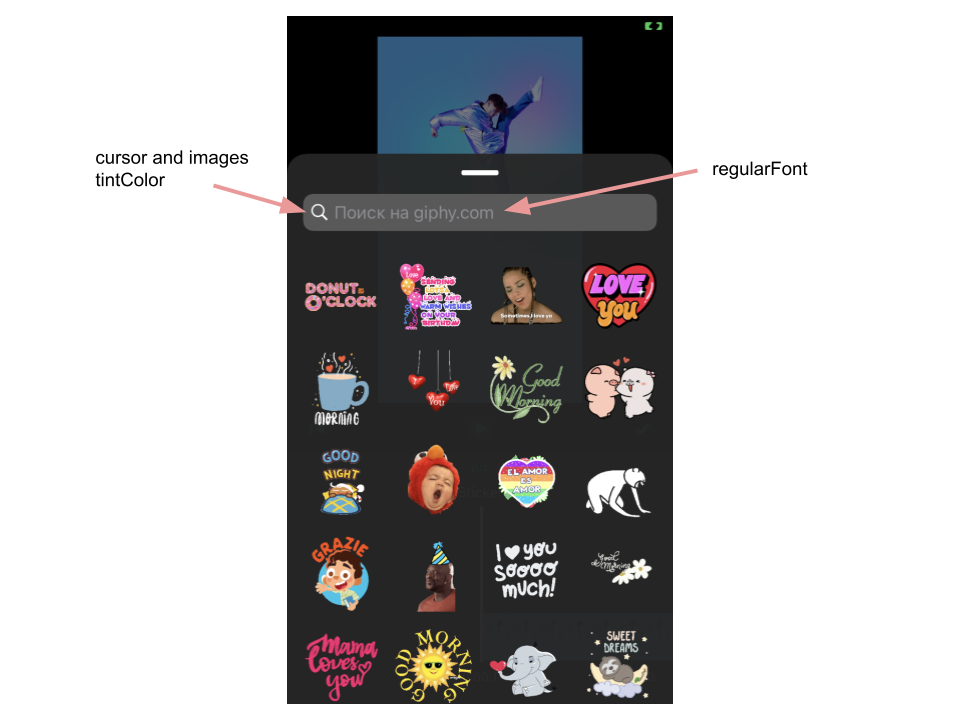
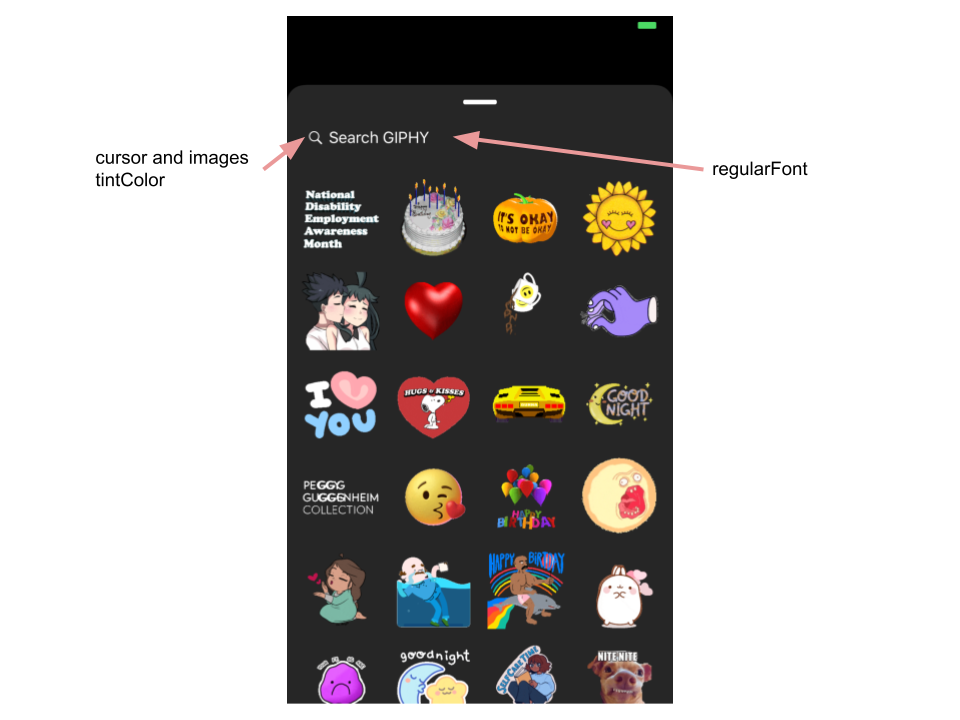
Update configuration for search gif placeholder (#119)
* update placeholder for search gif

* Add files via upload

* Update overlayEditor_styles.md

* Update README.md

* Update README.md

Changed region(s): [[0.2812, 0.0306, 0.75, 0.9778], [0.2188, 0.2444, 0.2812, 0.275], [0.6562, 0.0306, 0.6875, 0.0611]]

diff --git a/README.md b/README.md
@@ -334,6 +334,8 @@ Stickers are interactive objects (gif images) that can be added to the video rec
 
 By default [**Giphy API**](https://developers.giphy.com/docs/api/) is used to load stickers. All you need is just to pass your personal Giphy Api Key into **giphyAPIKey** parameter in GifPickerConfiguration entity.
 
+GIPHY doesn't charge for their content. The one thing they do require is attribution. Also, there is no commercial aspect to the current version of the product (no advertisements, etc.) To use it, please, [add "Search GIPHY" text attribution](https://github.com/Banuba/ve-sdk-ios-integration-sample/blob/update_placeholder_for_search_gif/mdDocs/overlayEditor_styles.md#string-resources) to the search bar.
+
 ### Configure the record button
 The record button is a main control on the camera screen which you can fully customize along with animations playing on tap.
 

diff --git a/mdDocs/overlayEditor_styles.md b/mdDocs/overlayEditor_styles.md
@@ -198,7 +198,7 @@ API key to interact with giphy service
 | OverlayEditor.Yes | Yes | Confirmation button title
 | OverlayEditor.No | No | Discarding button title
 | OverlayEditor.Do you want to reset all? | Discard changes? | Confirmation message for discarding changes
-| Search on giphy.com | Search on giphy.com | Hint, which is shown in the GIF objects search input field, if it is empty
+| com.banuba.searchGif.placeholder | Search GIPHY | Hint, which is shown in the GIF objects search input field, if it is empty
 | Cancel | Cancel | Ability to cancel the search for GIF objects
 | No stickers found | No stickers found | Pictures not found by custom keyword
 | Problems with internet | Problems with internet |A heading showing that there are problems with the Internet connection
